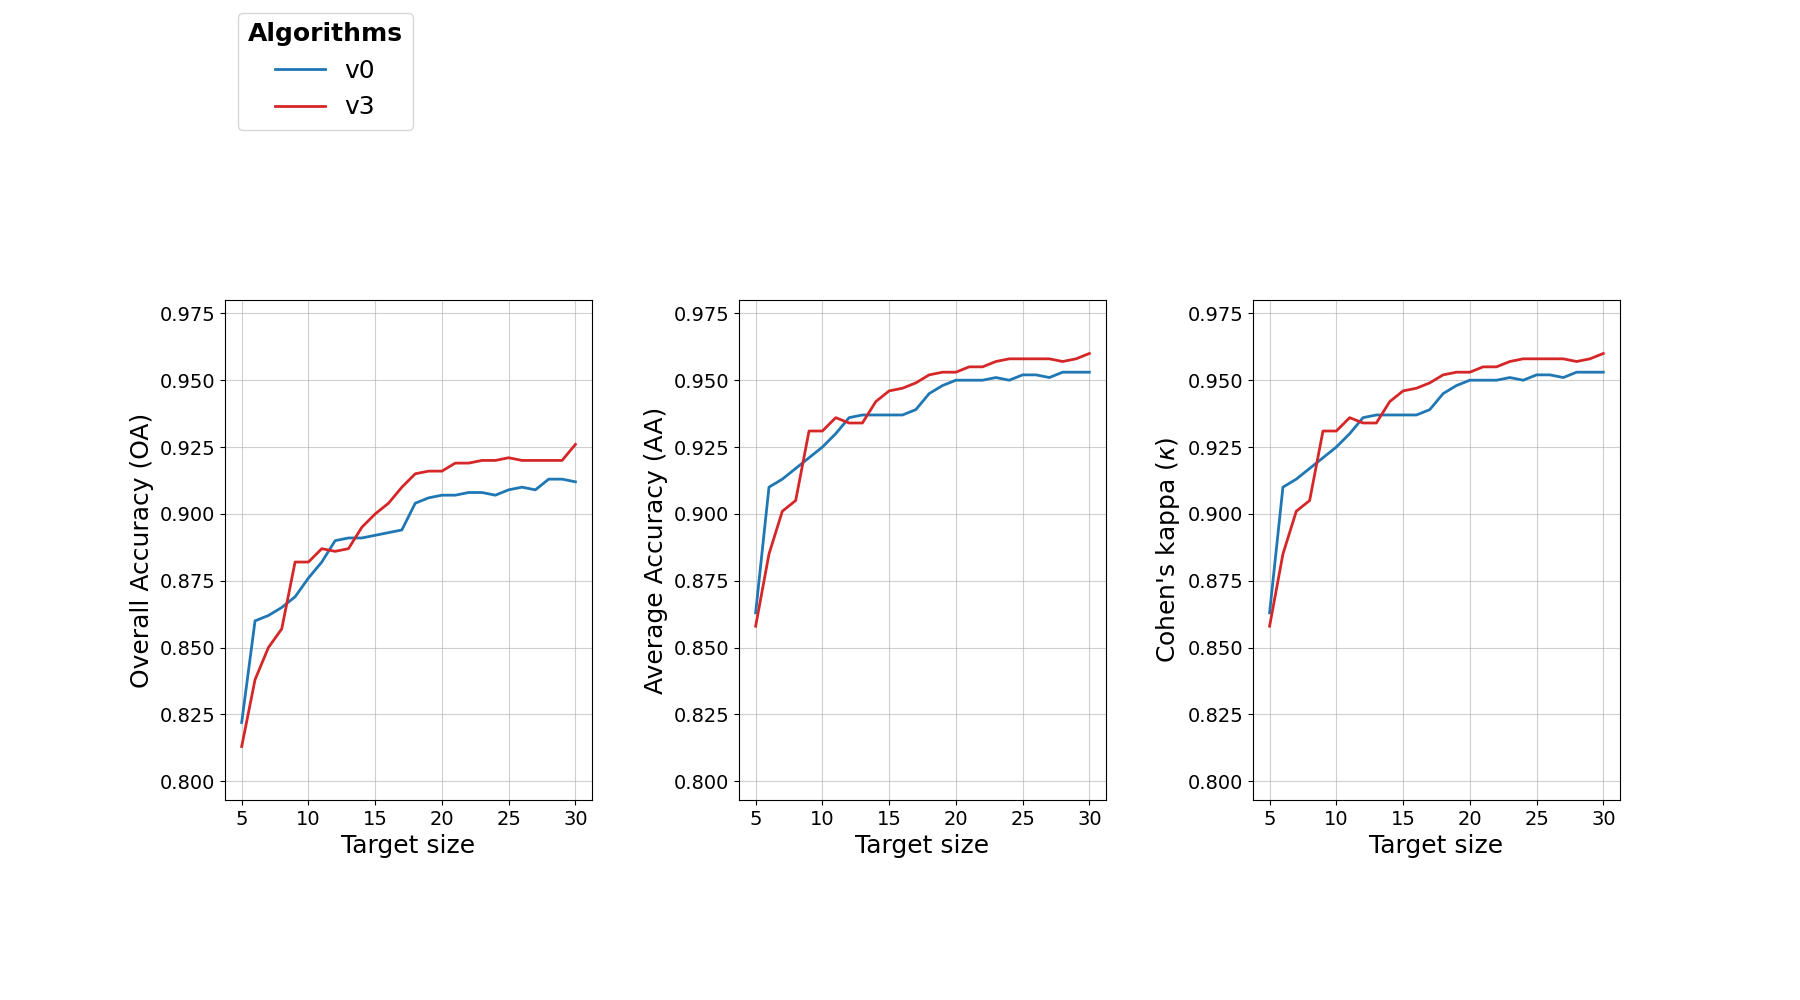
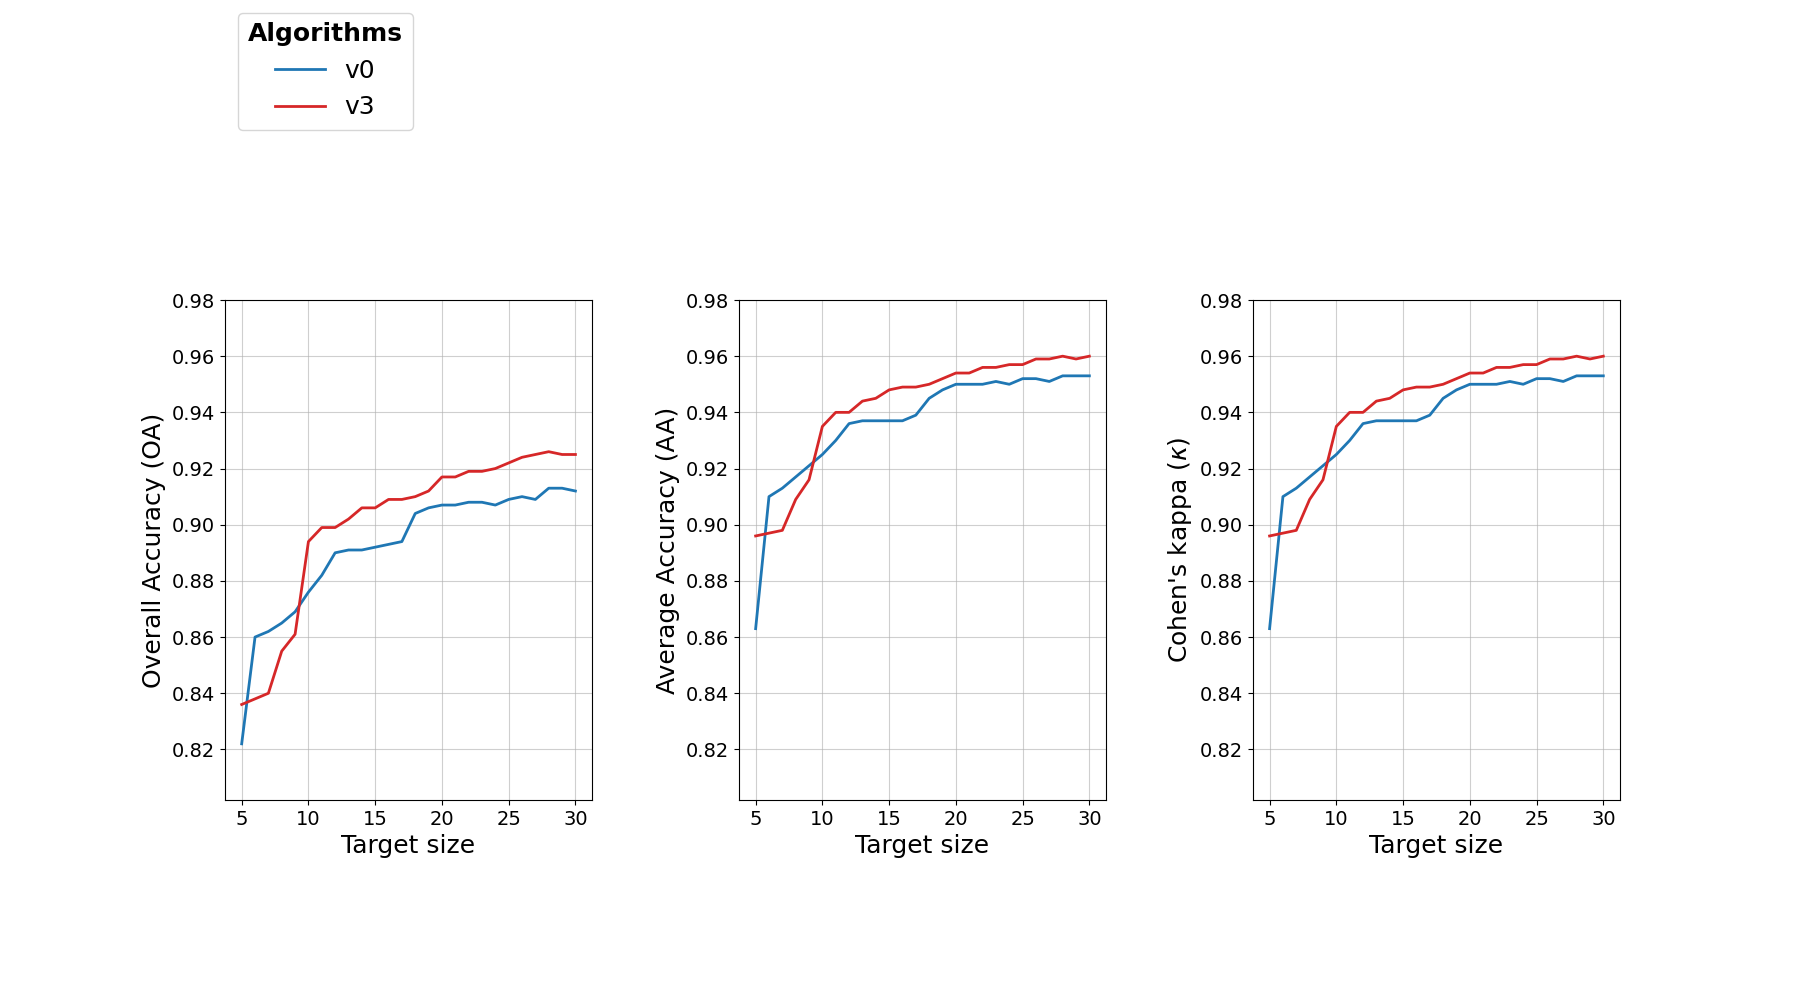
done

diff --git a/curated/s_v3/algorithm_v3.py b/curated/s_v3/algorithm_v3.py
@@ -21,20 +21,23 @@ class Sparse(nn.Module):
     def get_k(self, epoch,l0_norm):
         l0_norm_threshold = 50
         start = 250
+        maximum = 1
 
         if self.dataset == "paviaU":
-            l0_norm_threshold = 40
-            start = 400
+            l0_norm_threshold = 35
+            start = 250
+            maximum = 1
 
         if self.dataset == "salinas":
-            l0_norm_threshold = 45
-            start = 300
+            l0_norm_threshold = 35
+            start = 250
 
         if l0_norm <= l0_norm_threshold:
             return self.last_k
+
         end = 500
         minimum = 0
-        maximum = 1
+
         if epoch < start:
             return minimum
         elif epoch > end:
@@ -182,18 +185,17 @@ class Algorithm_v3(Algorithm):
     def get_lambda(self, l0_norm):
         l0_norm_threshold = 50
         if self.dataset == "paviaU":
-            l0_norm_threshold = 40
+            l0_norm_threshold = 35
         if self.dataset == "salinas":
-            l0_norm_threshold = 45
+            l0_norm_threshold = 35
         if l0_norm <= l0_norm_threshold:
             return 0
         m = 0.01
         if self.dataset.get_name() == "paviaU":
-            m = 0.005
+            m = 0.0001
         elif self.dataset.get_name() == "salinas":
             m = 0.05
         return m
-
 
 
 
